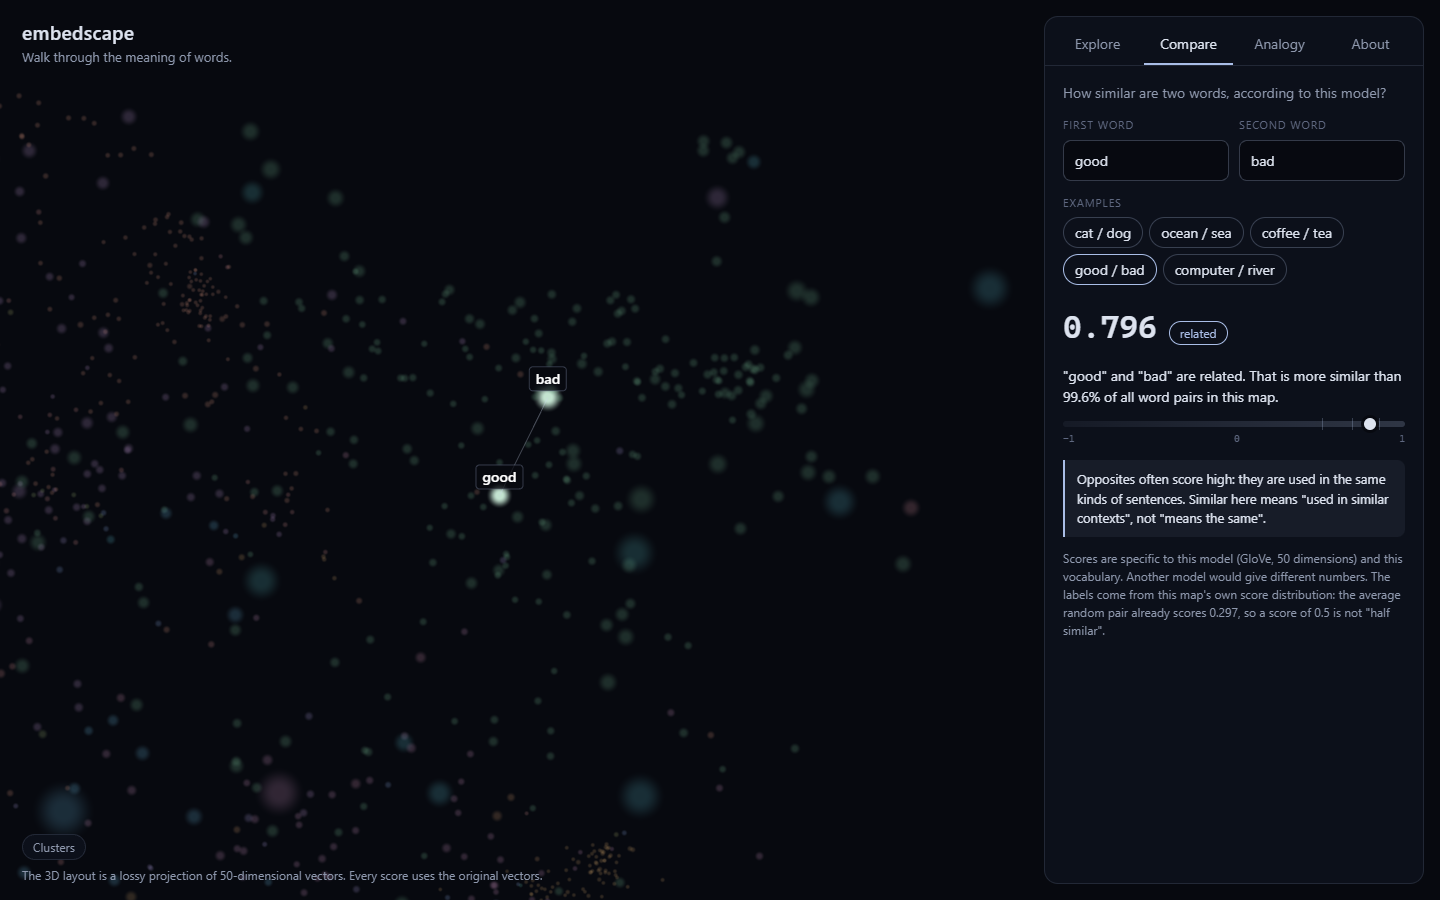
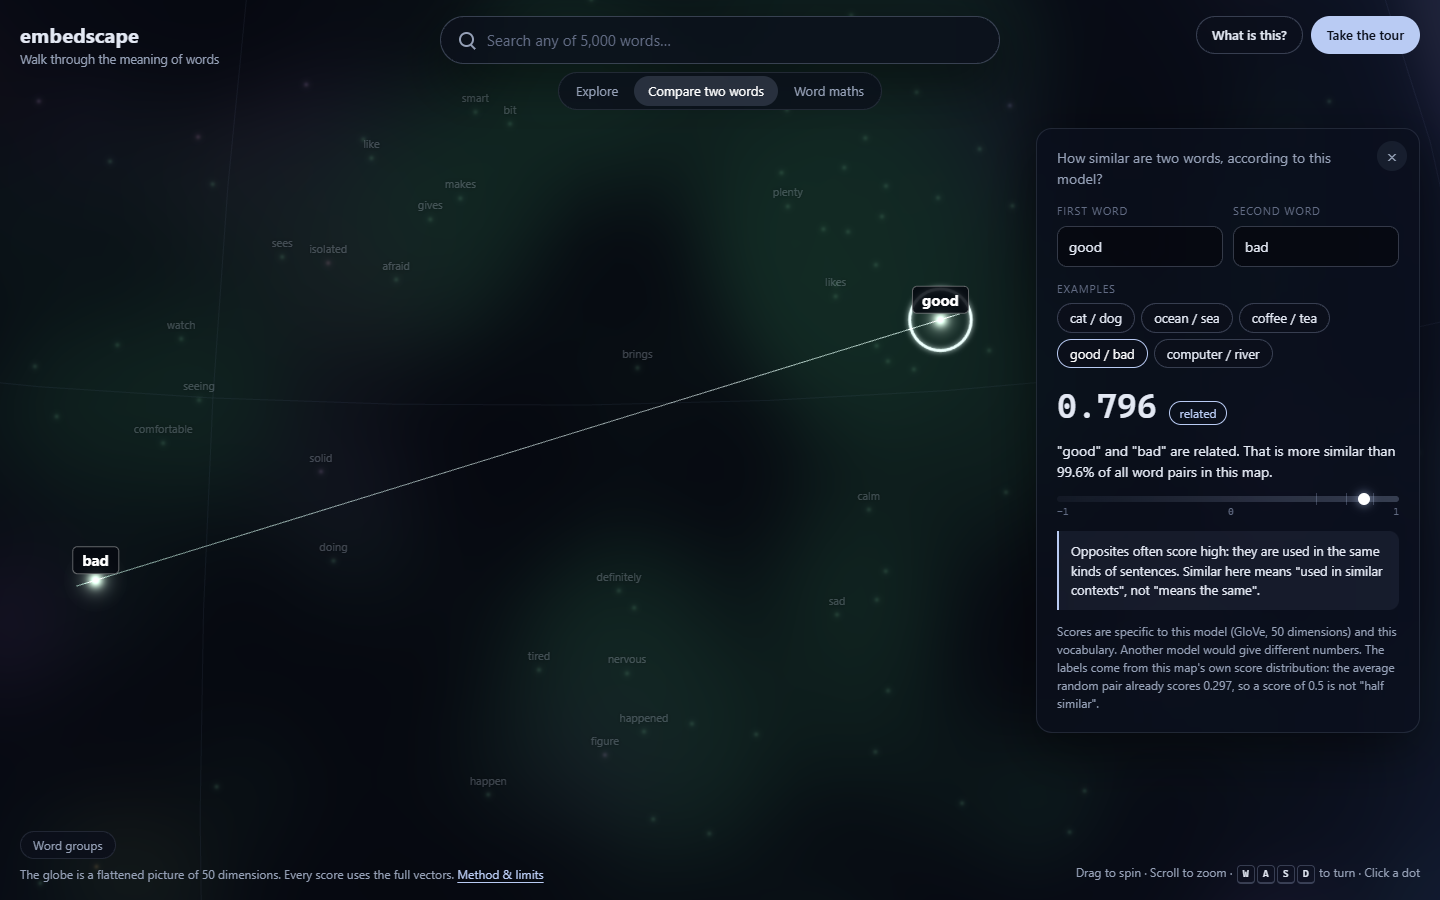
Update browser tests for the new layout and recapture screenshots

diff --git a/e2e/smoke.spec.ts b/e2e/smoke.spec.ts
@@ -1,21 +1,60 @@
 import { expect, test, type Page } from "@playwright/test";
 
-// One end-to-end pass over the production build: data loads, WebGL starts, every panel works,
-// the CSP is present and nothing logs an error or a CSP violation.
+// End-to-end passes over the production build: data loads, WebGL starts, the intro and tour
+// explain the idea, every tool works, the CSP is present and nothing logs an error or violation.
 
-async function open(page: Page, path = "") {
+async function open(page: Page, path = "", { seenIntro = true } = {}) {
   const problems: string[] = [];
   page.on("console", (msg) => msg.type() === "error" && problems.push(msg.text()));
   page.on("pageerror", (err) => problems.push(err.message));
-  await page.addInitScript(() => {
+  await page.addInitScript((seen) => {
+    if (seen) localStorage.setItem("embedscape.seenIntro", "1");
     document.addEventListener("securitypolicyviolation", (e) => console.error(`CSP violation: ${e.violatedDirective} ${e.blockedURI}`));
-  });
+  }, seenIntro);
   await page.goto(path);
   await expect(page.locator("body")).toHaveAttribute("data-ready", "true");
   return problems;
 }
 
-test("explore, compare and analogy work on the built site", async ({ page }) => {
+test("first visit explains the idea and the tour walks through it", async ({ page }) => {
+  const problems = await open(page, "", { seenIntro: false });
+
+  const intro = page.getByRole("dialog", { name: /Every dot is a word/ });
+  await expect(intro).toBeVisible();
+  await page.getByRole("button", { name: "Take the 1-minute tour" }).click();
+  await expect(intro).toBeHidden();
+
+  const tour = page.getByRole("region", { name: "Each glowing dot is a word" });
+  await expect(tour).toBeVisible();
+  const next = page.getByRole("button", { name: "Next" });
+
+  await next.click();
+  await expect(page.locator(".tour-title")).toHaveText("Similar words live together");
+  await expect(page.locator(".focus-word")).toHaveText("france");
+
+  await next.click();
+  await expect(page.locator(".tour-body")).toContainText("“cat” and “dog” score 0.921");
+  await expect(page.locator(".big-number")).toHaveText("0.921");
+
+  await next.click();
+  await expect(page.locator(".tour-body")).toContainText("the nearest word is “queen”");
+  await expect(page.locator(".equation strong")).toHaveText("queen");
+
+  await next.click();
+  await expect(page.locator(".tour-title")).toHaveText("It learned our biases too");
+  await next.click();
+  await page.getByRole("button", { name: "Start exploring" }).click();
+  await expect(page.locator(".tour")).toBeHidden();
+
+  // The intro is not shown again once seen.
+  await page.reload();
+  await expect(page.locator("body")).toHaveAttribute("data-ready", "true");
+  await page.waitForTimeout(1200);
+  await expect(page.locator("#intro")).not.toHaveAttribute("open", "");
+  expect(problems).toEqual([]);
+});
+
+test("explore, compare and word maths work on the built site", async ({ page }) => {
   const problems = await open(page);
 
   await expect(page.locator('meta[http-equiv="Content-Security-Policy"]')).toHaveAttribute("content", /default-src 'self'/);
@@ -30,31 +69,36 @@ test("explore, compare and analogy work on the built site", async ({ page }) => 
   await search.press("Enter");
   await expect(page.locator(".focus-word")).toHaveText("king");
   await expect(page.locator("#tabpanel-explore .score-list li")).toHaveCount(10);
-  await expect(page.locator(".word-label:visible")).toHaveCount(11);
+  await expect(page.locator(".word-label:not(.is-near):visible")).toHaveCount(11);
   await expect(page).toHaveURL(/#word=king$/);
 
   // A word outside the vocabulary gets an honest message.
   await search.fill("zzzzq");
   await search.press("Enter");
-  await expect(page.locator("#tabpanel-explore .status")).toContainText("is not one of the 5,000 words");
+  await expect(page.locator("#search-status")).toContainText("is not one of the 5,000 words");
+
+  // Closing the card returns to the open map.
+  await page.locator("#card-close").click();
+  await expect(page.locator("#card")).toBeHidden();
 
   // Compare.
-  await page.getByRole("tab", { name: "Compare" }).click();
+  await page.getByRole("tab", { name: "Compare two words" }).click();
   await page.getByRole("button", { name: "good / bad" }).click();
   await expect(page.locator(".big-number")).toHaveText(/^0\.\d{3}$/);
   await expect(page.locator(".compare-result .reading")).toHaveText("related");
   await expect(page.locator(".compare-result")).toContainText("Opposites often score high");
 
-  // Analogy.
-  await page.getByRole("tab", { name: "Analogy" }).click();
+  // Word maths.
+  await page.getByRole("tab", { name: "Word maths" }).click();
   await page.getByRole("button", { name: /king − man \+ woman/ }).click();
   await expect(page.locator(".equation strong")).toHaveText("queen");
   await expect(page.locator(".analogy-result .score-list li")).toHaveCount(5);
   await expect(page.locator(".analogy-result")).toContainText('the top answer would be "king"');
 
-  // About shows measured numbers and the licence credit.
-  await page.getByRole("tab", { name: "About" }).click();
-  await expect(page.locator("#tabpanel-about")).toContainText("Public Domain Dedication and License");
+  // Method and limits, with the licence credit.
+  await page.getByRole("button", { name: "Method & limits" }).click();
+  await expect(page.locator("#about")).toContainText("Public Domain Dedication and License");
+  await page.locator("#about-close").click();
 
   expect(problems).toEqual([]);
 });

diff --git a/e2e/screenshots.spec.ts b/e2e/screenshots.spec.ts
@@ -7,32 +7,42 @@ test.skip(!process.env.SCREENSHOTS, "set SCREENSHOTS=1 to capture README screens
 
 const OUT = "docs/screenshots";
 
-async function ready(page: Page, path = "") {
+async function ready(page: Page, path = "", seenIntro = true) {
+  await page.addInitScript((seen) => seen && localStorage.setItem("embedscape.seenIntro", "1"), seenIntro);
   await page.goto(path);
   await expect(page.locator("body")).toHaveAttribute("data-ready", "true");
 }
 
-// Let the camera flight (1.2 s) and fades settle before capturing.
-const settle = (page: Page) => page.waitForTimeout(2200);
+// Let camera flights and fades settle before capturing.
+const settle = (page: Page, ms = 2200) => page.waitForTimeout(ms);
 
 test("desktop screenshots", async ({ page }) => {
   await page.setViewportSize({ width: 1440, height: 900 });
-  await page.emulateMedia({ reducedMotion: "no-preference" });
 
-  await ready(page);
-  await page.waitForTimeout(1500);
+  await ready(page, "", false);
+  await settle(page, 4200); // intro fly-in
+  await page.screenshot({ path: `${OUT}/intro.png` });
+  await page.getByRole("button", { name: "Explore on my own" }).click();
+  await settle(page, 600);
   await page.screenshot({ path: `${OUT}/overview.png` });
 
-  await ready(page, "#word=ocean");
+  await page.getByRole("button", { name: "Take the tour" }).click();
+  for (let i = 0; i < 3; i++) await page.getByRole("button", { name: "Next" }).click();
+  await settle(page);
+  await page.screenshot({ path: `${OUT}/tour-analogy.png` });
+  await page.getByRole("button", { name: "End tour" }).click();
+
+  await page.getByRole("combobox", { name: "Search a word" }).fill("ocean");
+  await page.getByRole("combobox", { name: "Search a word" }).press("Enter");
   await settle(page);
   await page.screenshot({ path: `${OUT}/explore-ocean.png` });
 
-  await page.getByRole("tab", { name: "Compare" }).click();
+  await page.getByRole("tab", { name: "Compare two words" }).click();
   await page.getByRole("button", { name: "good / bad" }).click();
   await settle(page);
   await page.screenshot({ path: `${OUT}/compare.png` });
 
-  await page.getByRole("tab", { name: "Analogy" }).click();
+  await page.getByRole("tab", { name: "Word maths" }).click();
   await page.getByRole("button", { name: /doctor − man \+ woman/ }).click();
   await settle(page);
   await page.screenshot({ path: `${OUT}/analogy-bias.png` });

diff --git a/e2e/no-webgl.spec.ts b/e2e/no-webgl.spec.ts
@@ -8,6 +8,7 @@ test.use({ launchOptions: { args: ["--disable-3d-apis", "--disable-webgl"] } });
 test("panels work without WebGL", async ({ page }) => {
   const errors: string[] = [];
   page.on("pageerror", (err) => errors.push(err.message));
+  await page.addInitScript(() => localStorage.setItem("embedscape.seenIntro", "1"));
   await page.goto("");
   await expect(page.locator("body")).toHaveAttribute("data-ready", "true");
   await expect(page.locator(".no-webgl")).toBeVisible();
@@ -18,7 +19,7 @@ test("panels work without WebGL", async ({ page }) => {
   await page.keyboard.press("Enter");
   await expect(page.locator("#tabpanel-explore .score-list li")).toHaveCount(10);
 
-  await page.getByRole("tab", { name: "Analogy" }).click();
+  await page.getByRole("tab", { name: "Word maths" }).click();
   await page.getByRole("button", { name: /paris − france \+ japan/ }).click();
   await expect(page.locator(".equation strong")).toHaveText("tokyo");
   expect(errors).toEqual([]);
